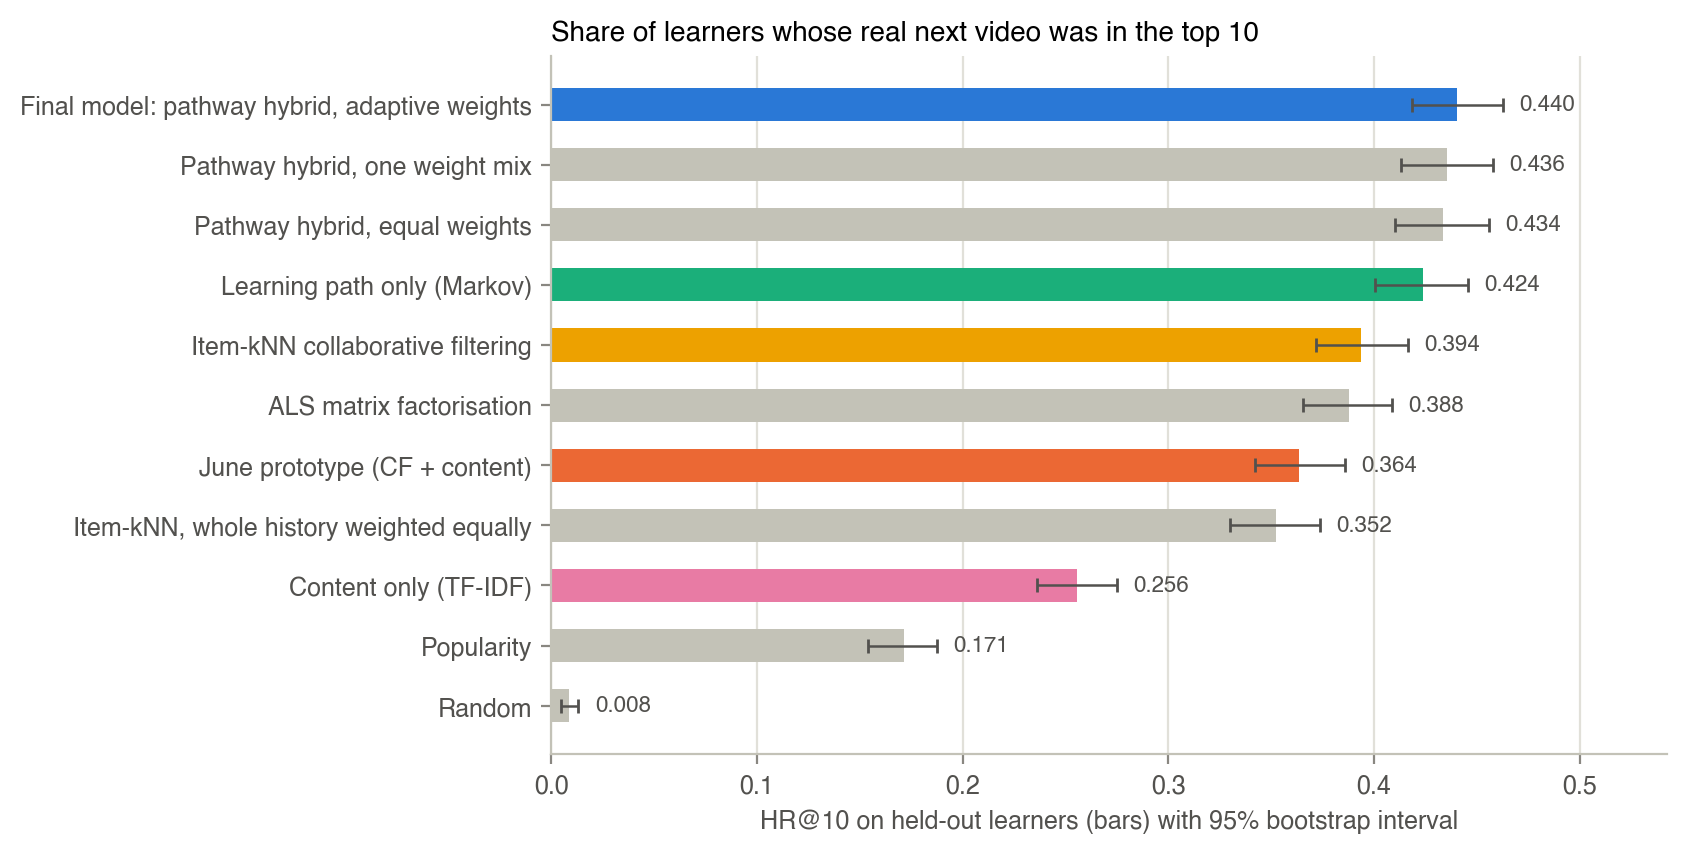
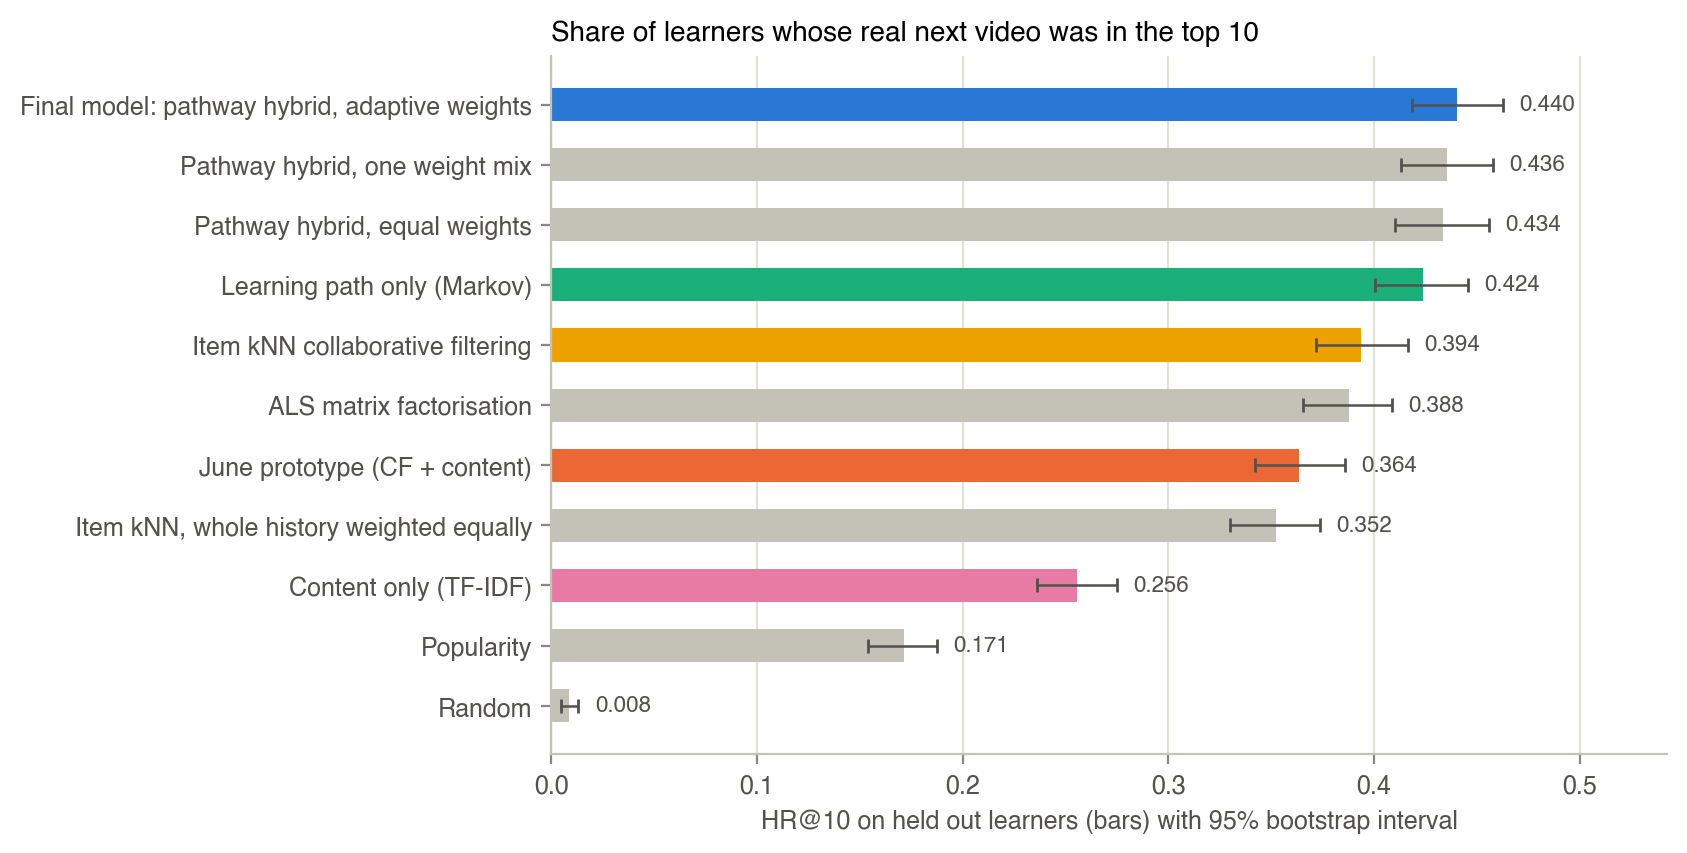
Update

diff --git a/edurec/static/index.html b/edurec/static/index.html
@@ -144,7 +144,7 @@
     <div class="logo"><svg width="22" height="22" viewBox="0 0 24 24" fill="none" stroke="#fff" stroke-width="2" stroke-linecap="round" stroke-linejoin="round"><circle cx="5" cy="18" r="2"/><circle cx="12" cy="7" r="2"/><circle cx="19" cy="15" r="2"/><path d="M6.2 16.4 10.8 8.6M13.6 8.3l4.1 5.2"/></svg></div>
     <div>
       <h1>Next video recommender</h1>
-      <p>Pathway-aware hybrid recommender for the Mandarine Academy Microsoft 365 MOOC (MARS dataset)</p>
+      <p>Pathway aware hybrid recommender for the Mandarine Academy Microsoft 365 MOOC (MARS dataset)</p>
     </div>
     <div class="pill" id="health"><span class="dot"></span><span>Connecting…</span></div>
   </div>

diff --git a/edurec/figures.py b/edurec/figures.py
@@ -20,8 +20,8 @@ LABELS = {
     "Hybrid (one global weight mix)": "Pathway hybrid, one weight mix",
     "Hybrid (equal weights)": "Pathway hybrid, equal weights",
     "Learning path (Markov)": "Learning path only (Markov)",
-    "Item-kNN CF": "Item-kNN collaborative filtering",
-    "Item-kNN CF (no recency)": "Item-kNN, whole history weighted equally",
+    "Item-kNN CF": "Item kNN collaborative filtering",
+    "Item-kNN CF (no recency)": "Item kNN, whole history weighted equally",
     "Prototype hybrid (June)": "June prototype (CF + content)",
     "ALS matrix factorisation": "ALS matrix factorisation",
     "Content (TF-IDF)": "Content only (TF-IDF)",
@@ -58,7 +58,7 @@ def results_bars(summary):
     for yi, value, high in zip(y, values, rows["hr@10_ci_high"]):
         ax.text(high + 0.008, yi, f"{value:.3f}", va="center", fontsize=8, color=plotstyle.INK_SECONDARY)
     ax.set_yticks(y, [LABELS[m] for m in rows.index])
-    ax.set_xlabel("HR@10 on held-out learners (bars) with 95% bootstrap interval")
+    ax.set_xlabel("HR@10 on held out learners (bars) with 95% bootstrap interval")
     ax.set_xlim(0, max(rows["hr@10_ci_high"]) + 0.08)
     ax.grid(axis="y", visible=False)
     ax.set_title("Share of learners whose real next video was in the top 10")
@@ -149,12 +149,15 @@ def coldstart_chart(coldstart):
                 fmt="none", ecolor=plotstyle.INK_SECONDARY, elinewidth=0.9, capsize=2.5)
     for yi, value, high in zip(y, values, rows["hr_ci_high"]):
         ax.text(high + 0.006, yi, f"{value:.3f}", va="center", fontsize=8, color=plotstyle.INK_SECONDARY)
-    labels = [f"{s} ({n} learners)" if n != rows["cases"].max() else s for s, n in zip(rows["strategy"], rows["cases"])]
+    shown = {"All-time popularity (uses future data)": "All time popularity (uses future data)",
+             "Same-job popularity": "Same job popularity"}
+    names = [shown.get(s, s) for s in rows["strategy"]]
+    labels = [f"{s} ({n} learners)" if n != rows["cases"].max() else s for s, n in zip(names, rows["cases"])]
     ax.set_yticks(y, labels)
     ax.set_xlim(0, rows["hr_ci_high"].max() + 0.07)
     ax.set_xlabel("HR@10 for each learner's first video, using only earlier activity")
     ax.grid(axis="y", visible=False)
-    ax.set_title("Brand-new learners")
+    ax.set_title("Brand new learners")
     plotstyle.save(fig, FIGURES_DIR / "fig_coldstart")
 
 

diff --git a/edurec/explore.py b/edurec/explore.py
@@ -135,7 +135,7 @@ def draw(per_learner, item_use, gaps, watch, stats):
                 color=plotstyle.INK_SECONDARY, arrowprops=leader)
     ax.set_title("b. Activity is concentrated on few videos")
     ax.set_xlabel("% of videos (most used first)")
-    ax.set_ylabel("% of learner-video pairs")
+    ax.set_ylabel("% of learner and video pairs")
     ax.set_xlim(0, 100)
     ax.set_ylim(0, 100)
 
